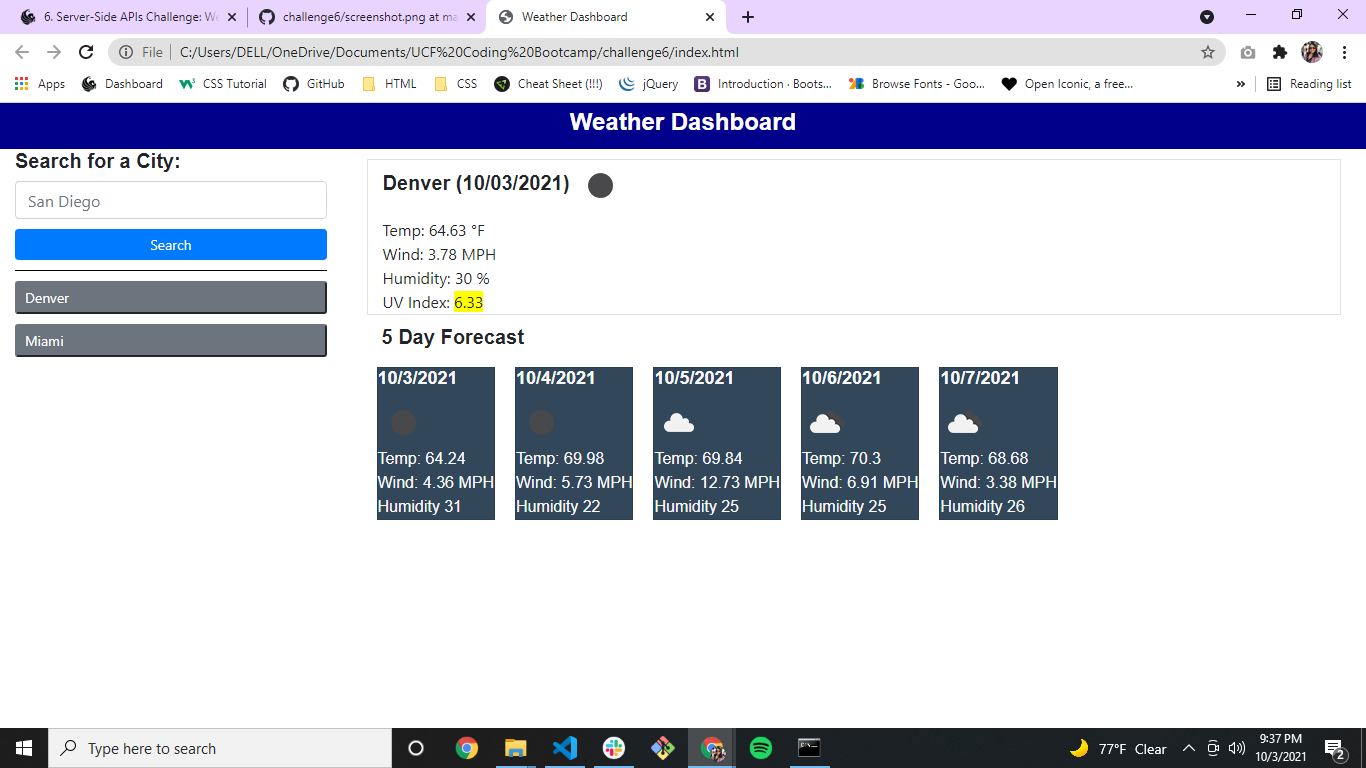
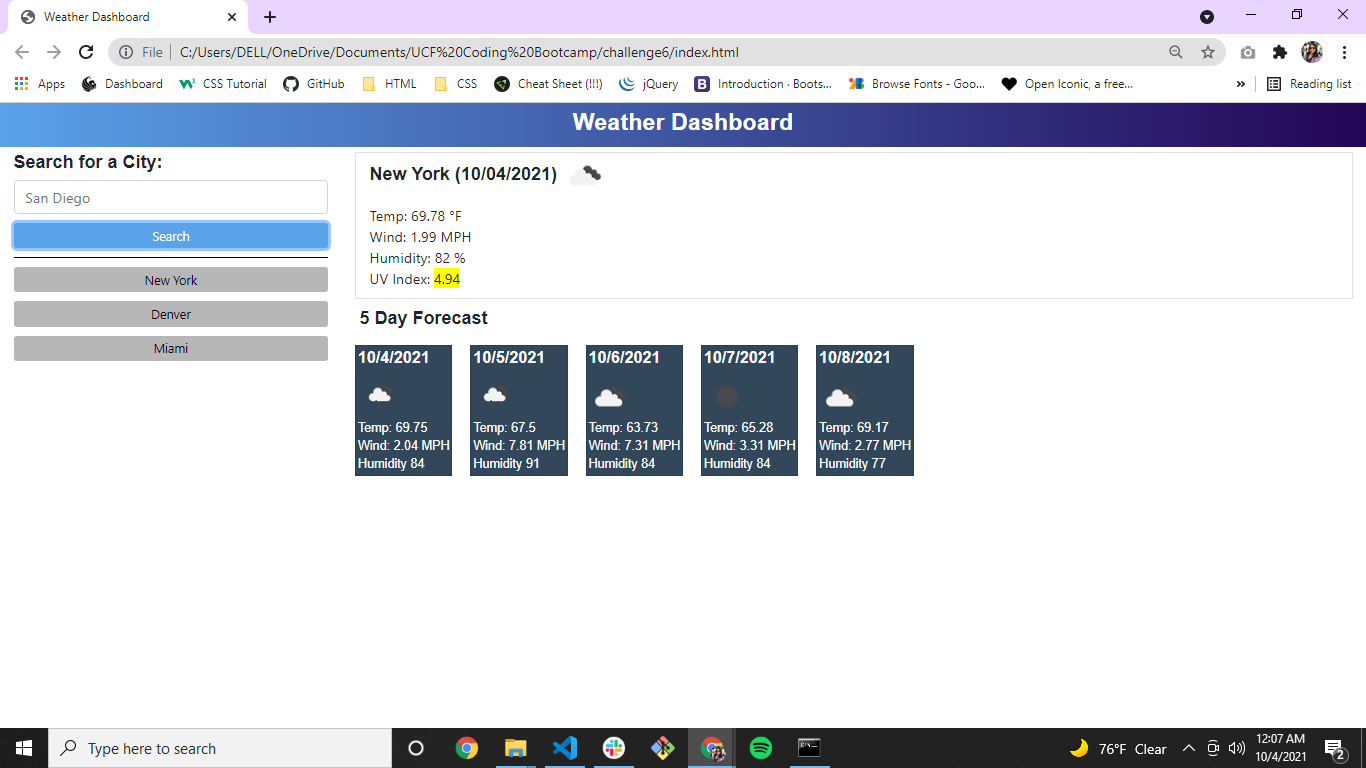
new screenshot and styling updates

diff --git a/assets/css/style.css b/assets/css/style.css
@@ -21,7 +21,6 @@ h2 {
 
 button {
     margin: 10px 0px;
-    text-align: center;
 }
 
 #search-button {
@@ -39,6 +38,7 @@ button {
 
 #current-weather-container {
     margin: 0px;
+    paddin-left: 0px;
     padding-bottom: 10px;
 }
 
@@ -56,9 +56,6 @@ h3 {
     font-size: 18px !important;
 }
 
-#forecast-weather {
-    margin:auto;
-}
 #forecastCard {
     background-color: #33475a !important;
     font-family:Arial, Helvetica, sans-serif;
@@ -88,6 +85,7 @@ h3 {
     background-color: #b7b7b7 !important;
     border: #b7b7b7 !important;
     color: black;
+    justify-content: center;
 }
 
 .btn-secondary:hover {

diff --git a/assets/js/script.js b/assets/js/script.js
@@ -85,6 +85,7 @@ var uvIndex = function (lat,lon){
         });
     });
 }
+
 // display UV index and color code by severity
 var displayUvIndex = function(index){
     var uvIndexEl = document.createElement("div");
